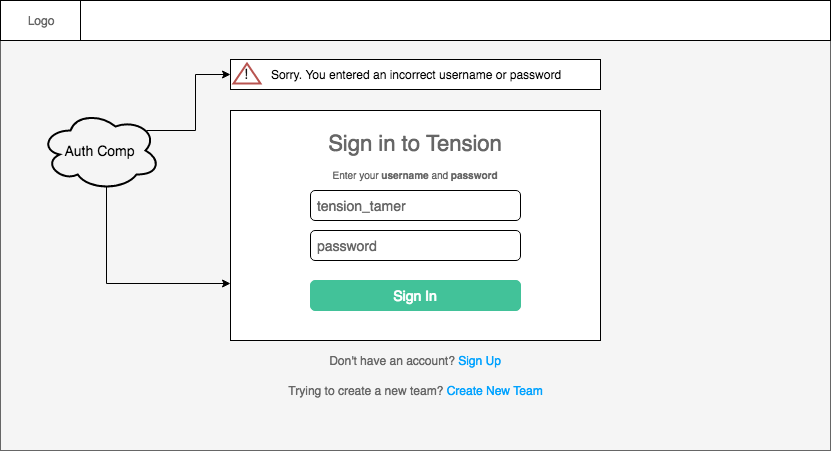
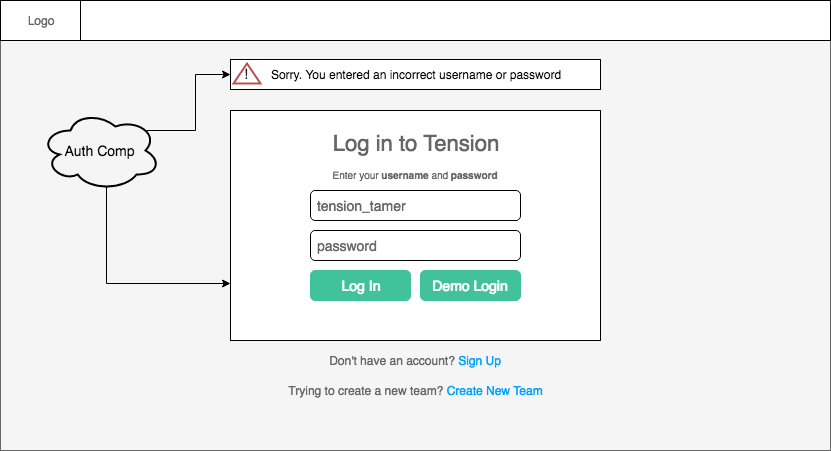
Updated login wireframe. Added splash page and chat container

Changed region(s): [[0.361, 0.5898, 0.6318, 0.714], [0.3911, 0.2794, 0.6017, 0.3415]]

diff --git a/frontend/components/app.jsx b/frontend/components/app.jsx
@@ -1,21 +1,21 @@
 import React from 'react';
-import { Route } from 'react-router-dom';
+import { Route, Switch } from 'react-router';
 
 import GreetingContainer from './greeting_container';
 import SessionFormContainer from './session_form_container';
-import { AuthRoute } from '../util/route_util';
+import Splash from './splash';
+import ChatContainer from './chat_container';
+
+import { AuthRoute, ProtectedRoute } from '../util/route_util';
 
 const App = () => {
   return (
-    <div>
-      <header>
-        <h1>Tension Chat</h1>
-        <GreetingContainer/>
-      </header>
-
+    <Switch>
+      <AuthRoute exact path="/" component={Splash} />
       <AuthRoute path="/login" component={SessionFormContainer}/>
       <AuthRoute path="/signup" component={SessionFormContainer}/>
-    </div>
+      <ProtectedRoute path="/messages" component={ChatContainer} />
+    </Switch>
   );
 };
 

diff --git a/frontend/util/route_util.jsx b/frontend/util/route_util.jsx
@@ -14,8 +14,21 @@ const Auth = ({ component: Component, path, loggedIn }) => (
   )}/>
 );
 
+// renders component if logged in, otherwise redirects to the login page
+const Protected = ({component: Component, path, loggedIn}) => (
+  <Route path={path} render={(props) => (
+     loggedIn ? (
+      <Component {...props}/>
+    ) : (
+      <Redirect to="/login"/>
+    )
+  )}/>
+);
+
 const mapStateToProps = state => (
   { loggedIn: Boolean(state.session.currentUser) }
 );
 
 export const AuthRoute = withRouter(connect(mapStateToProps)(Auth));
+
+export const ProtectedRoute = withRouter(connect(mapStateToProps, null)(Protected));

diff --git a/frontend/components/chat_container.jsx b/frontend/components/chat_container.jsx
@@ -1,0 +1,20 @@
+import React from 'react';
+import { connect } from 'react-redux';
+
+import { logout } from '../actions/session_actions';
+import Chat from './chat';
+
+const mapStateToProps = state => ({
+  currentUser: state.session.currentUser
+});
+
+const mapDispatchToProps = dispatch => ({
+  logout: () => dispatch(logout())
+});
+
+const ChatContainer = connect(
+  mapStateToProps,
+  mapDispatchToProps
+)(Chat);
+
+export default ChatContainer;

diff --git a/frontend/components/chat.jsx b/frontend/components/chat.jsx
@@ -1,0 +1,14 @@
+import React from 'react';
+
+const Chat = ({ currentUser, logout }) => {
+  if (currentUser) {
+    return(
+      <div>
+        <h1>Welcome, {currentUser.username}</h1>
+        <button onClick={logout}>Logout</button>
+      </div>
+    );
+  }
+};
+
+export default Chat;

diff --git a/frontend/components/splash.jsx b/frontend/components/splash.jsx
@@ -1,0 +1,14 @@
+import React from 'react';
+import { Link } from 'react-router-dom';
+
+const Splash = () => {
+  return (
+    <div>
+      Where Work Happens
+
+      <Link to="/login">Get Started</Link>
+    </div>
+  );
+};
+
+export default Splash;

diff --git a/frontend/components/session_form.jsx b/frontend/components/session_form.jsx
@@ -25,7 +25,7 @@ class SessionForm extends React.Component {
 
   render() {
     if (this.props.loggedIn) {
-      return <Redirect to="/"/>;
+      return <Redirect to="/messages"/>;
     }
 
     let headerText;
